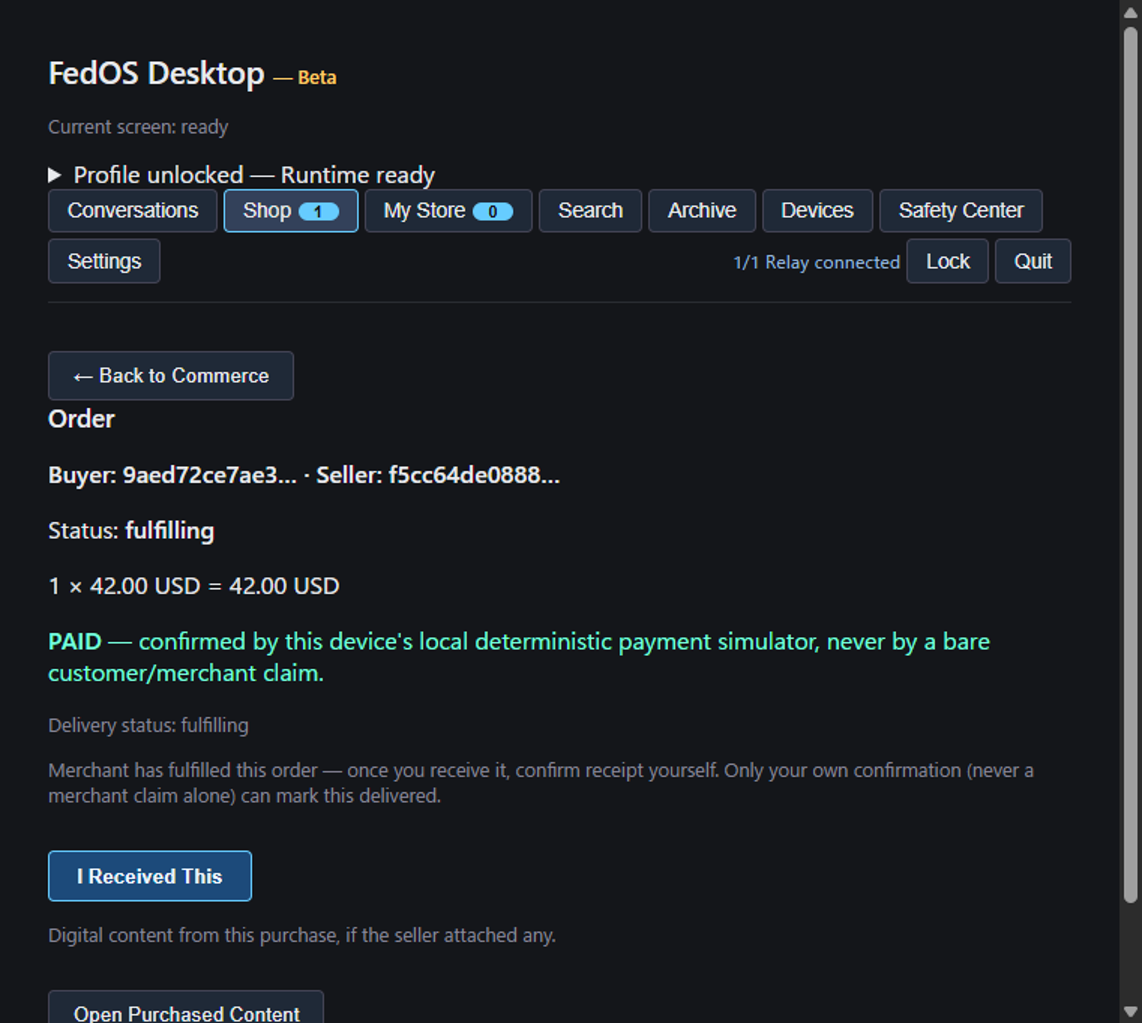
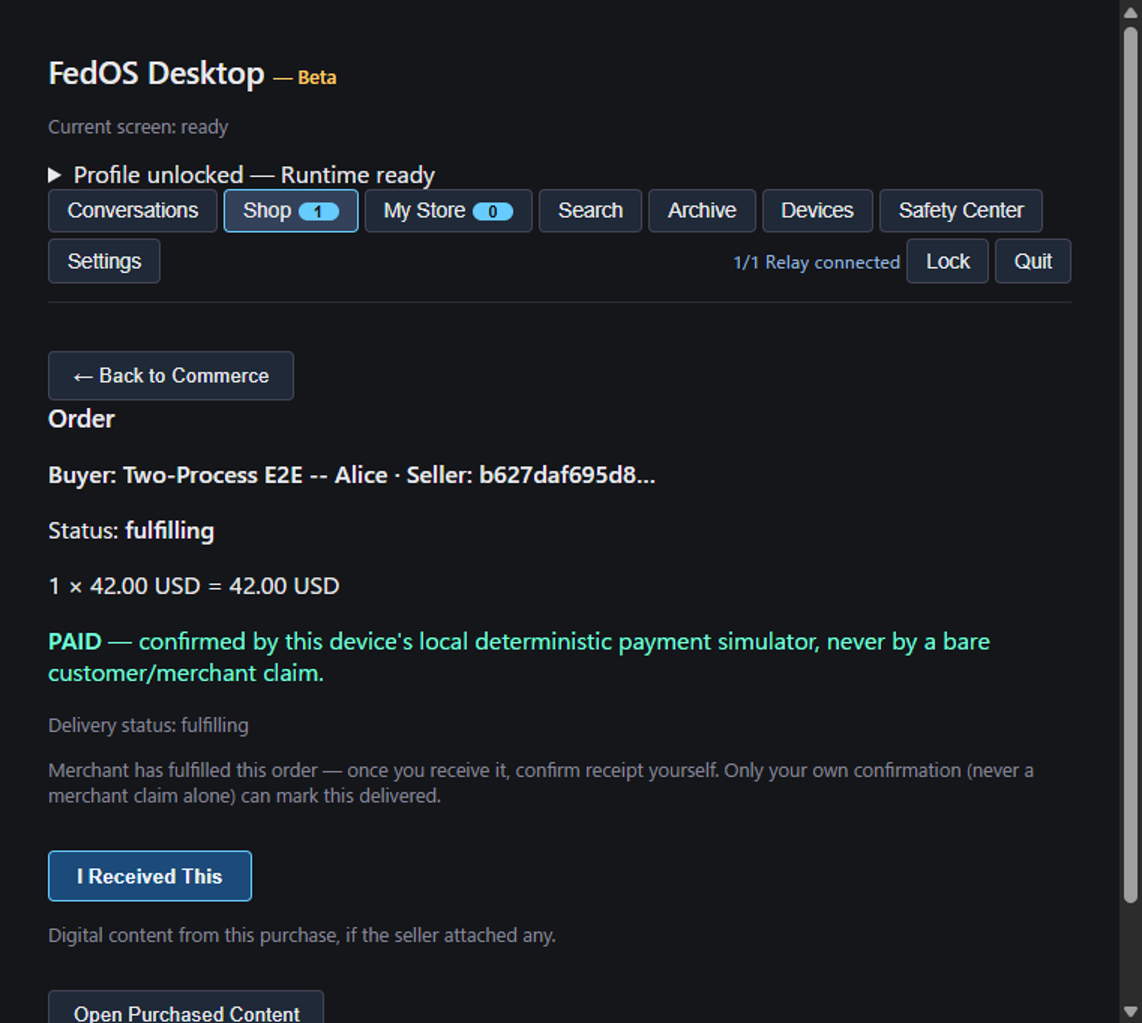
Two-Process E2E: drive SS23's "offline" launch from a DURABLE choice, not a same-launch save
Live-reproduced validation-gate regression: "SS23 offline/reconnect + STEP 7"
failed with `expected 'paid' to be 'accepted'`, cascading into all five
downstream phases via `PHASE B must have reached PAID first`.

ROOT CAUSE (measured, not inferred -- temporary main-process instrumentation
on `initializeCommerceNetworkProfileFromRelayConfig()`,
`handleCommerceNetworkProfileSet()`, `handleCommerceOrdersListIncoming()` and
`applyInboundPrivatePaymentEvidenceNonFatal()`, since removed). Timeline of
BOB_4_OFFLINE_WHILE_EVIDENCE_WAITS, one launch, absolute ms:

  472216  app.whenReady() restored persisted profile "direct"
  473524  unlock -> initializeCommerceNetworkProfileFromRelayConfig() kept
          "direct" (a persisted EXPLICIT choice exists -- guard working)
  473562  handleCommerceOrdersListIncoming ENTER profile="direct"
          (this is renderReady()'s OWN one-shot refresh, ~38ms after unlock)
  473619  payment evidence ADOPTED -> order "paid"
  476417  handleCommerceNetworkProfileSet -> "local-only"  <-- 2.9s TOO LATE
  476730+ every later refresh ENTERs with "local-only" and no-ops correctly

So the `"local-only"` early-return guard in
`commercePrivatePaymentEvidenceDiscoverAndApplyNonFatal()` is correct and did
its job; nothing in production code is racing an explicit user instruction.
The suite's own choreography was stale: `returningLaunchPreamble()` assumed
the pre-arc behaviour where the Network Profile RESET to Local Only every
[…]

Changed region(s): [[0.0919, 0.4545, 0.5823, 0.4848]]

diff --git a/packages/fedos-desktop-electron-spike/test/commerce_e2e_two_process_real_electron.test.ts b/packages/fedos-desktop-electron-spike/test/commerce_e2e_two_process_real_electron.test.ts
@@ -428,12 +428,32 @@ const PRODUCT_DESCRIPTION = "Real cross-process discovery/order-sync proof produ
 
 /**
  * The shared 14-step opening every RETURNING launch uses: real unlock with
- * the real passphrase against the real persisted on-disk profile, then the
- * per-session Commerce network profile (this build deliberately does NOT
- * persist it -- the Settings screen says so in its own copy: "it resets to
- * Local Only every launch"), then the real "Acting as" identity selection.
- * Returned as a fixed-length array so downstream step indices are a simple
- * `PREAMBLE_STEPS + n` everywhere.
+ * the real passphrase against the real persisted on-disk profile, then a
+ * real, EXPLICIT Settings -> Network Profile choice (saved through the real
+ * `fedos-app:commerce-network-profile-set` IPC), then the real "Acting as"
+ * identity selection. Returned as a fixed-length array so downstream step
+ * indices are a simple `PREAMBLE_STEPS + n` everywhere.
+ *
+ * BUYER DISCOVERY + DIGITAL CONTENT DELIVERY mega-arc -- IMPORTANT, AND THE
+ * REASON `returningLaunchPreambleVerifyingPersistedNetworkProfile()` below
+ * exists: the Network Profile is now DURABLE (Agent U's
+ * `persistCommerceNetworkProfile()`, honoured over Agent D's relay-derived
+ * default by the Coordinator's `hasPersistedCommerceNetworkProfileChoice()`
+ * guard, and reloaded in `app.whenReady()` BEFORE any window exists). The
+ * old "it resets to Local Only every launch" behaviour this comment used to
+ * describe is GONE -- the Settings screen's own copy now correctly says
+ * "this choice will still be in effect the next time you launch FedOS".
+ *
+ * The practical consequence for THIS suite: a save performed at step 8/10
+ * below lands ~3 SECONDS AFTER unlock, and `renderReady()` fires a one-shot
+ * `refreshCommerceMyOrdersList()` + `refreshCommerceMerchantOrdersList()`
+ * the instant the Ready screen renders -- i.e. a full bounded reliable
+ * refresh (order-sync, payment-evidence, delivery, media-release) has
+ * already run to completion under the PREVIOUSLY PERSISTED profile before
+ * this preamble's own save is even dispatched. This preamble therefore
+ * CANNOT be used to put a launch "offline"; only a choice persisted in an
+ * EARLIER session can do that, which is exactly what a real user's own
+ * durable Settings choice does.
  */
 const PREAMBLE_STEPS = 14;
 function returningLaunchPreamble(
@@ -454,6 +474,43 @@ function returningLaunchPreamble(
     { action: "fill", selector: "#commerce-network-profile-select", value: networkProfile }, // 8
     { action: "wait", ms: 100 }, // 9
     { action: "click", selector: "#commerce-network-profile-save" }, // 10
+    { action: "wait", ms: 300 }, // 11
+    { action: "fill", selector: actingAsSelector, value: actingAsPubkey }, // 12
+    { action: "wait", ms: 200 }, // 13
+  ];
+}
+
+/**
+ * Same 14-step shape and same step indices as `returningLaunchPreamble()`
+ * above, but it deliberately CHANGES NOTHING about the Commerce network
+ * profile: it opens Settings and READS the Network Profile control back,
+ * so the caller can assert that the choice the user made in an EARLIER
+ * session is genuinely already in force -- which, because
+ * `commerceNetworkProfile` is restored inside `app.whenReady()` before any
+ * window is created, means it was in force for this launch's ENTIRE
+ * lifetime, including `renderReady()`'s own one-shot orders refresh.
+ *
+ * This is the only way this suite can drive a genuinely offline launch: see
+ * `returningLaunchPreamble()`'s own header for why a same-launch save is
+ * always too late.
+ */
+function returningLaunchPreambleVerifyingPersistedNetworkProfile(
+  passphrase: string,
+  actingAsSelector: string,
+  actingAsPubkey: string,
+): readonly UiStep[] {
+  return [
+    { action: "wait", ms: 300 }, // 0
+    { action: "read", selector: "#current-screen" }, // 1 -- expect "unlock"
+    { action: "fill", selector: "#unlock-pass", value: passphrase }, // 2
+    { action: "click", selector: "#unlock-submit" }, // 3
+    { action: "wait", ms: 2500 }, // 4 -- real Argon2 + real WASM master-seed unwrap
+    { action: "read", selector: "#current-screen" }, // 5 -- expect "ready"
+    { action: "click", selector: "#nav-settings" }, // 6
+    { action: "wait", ms: 300 }, // 7
+    { action: "read", selector: "#commerce-network-profile-select", as: "value" }, // 8 -- the RESTORED durable choice, read straight off the real control
+    { action: "wait", ms: 100 }, // 9
+    { action: "read", selector: "#commerce-network-profile-report" }, // 10 -- deliberately NOT a save (no click): nothing about the profile is changed this launch
     { action: "wait", ms: 300 }, // 11
     { action: "fill", selector: actingAsSelector, value: actingAsPubkey }, // 12
     { action: "wait", ms: 200 }, // 13
@@ -732,6 +789,29 @@ realSuite("FedOS Commerce End-to-End -- REAL two independent Electron processes 
         { action: "wait", ms: 500 }, // 24 -- also sends a real private-order-sync EVENT back to Alice
         { action: "read", selector: "#commerce-order-status-text" }, // 25 -- expect "accepted"
         { action: "screenshot", value: "bob-06-accepted" }, // 26
+        // ---------------------------------------------------------------
+        // PHASE B SETUP, performed here on purpose (see PHASE B's own
+        // header): Bob finishes his seller turn and then GOES OFFLINE the
+        // only way this product actually offers -- Settings -> Network
+        // Profile -> "Local Only", saved explicitly. That choice is now
+        // DURABLE (Agent U), so it is restored in `app.whenReady()` of his
+        // NEXT launch before any window exists. Done at the end of THIS
+        // launch, not the start of the next one, because a save can only
+        // ever take effect after unlock -- by which point the Ready
+        // screen's own one-shot orders refresh has already run.
+        //
+        // This is also the last moment at which it is provably free of any
+        // side effect: Alice has not paid yet (STEP 6 is still ahead), so
+        // there is no payment evidence anywhere on the relay for this
+        // still-online launch to adopt.
+        // ---------------------------------------------------------------
+        { action: "click", selector: "#nav-settings" }, // 27
+        { action: "wait", ms: 300 }, // 28
+        { action: "fill", selector: "#commerce-network-profile-select", value: "local-only" }, // 29
+        { action: "wait", ms: 100 }, // 30
+        { action: "click", selector: "#commerce-network-profile-save" }, // 31
+        { action: "wait", ms: 400 }, // 32
+        { action: "read", selector: "#commerce-network-profile-report" }, // 33 -- the real product's own durability promise, read back off the live DOM
       ], true);
       expect(readAt(bob3, 1)).toBe("unlock");
       expect(readAt(bob3, 5)).toBe("ready");
@@ -745,6 +825,14 @@ realSuite("FedOS Commerce End-to-End -- REAL two independent Electron processes 
       // a locally-minted lookalike.
       expect(bobOrderIdLine).toBe(aliceOrderIdLine);
       expect(readAt(bob3, 25)).toBe("accepted");
+      const bobOfflineChoiceReport = readAt(bob3, 33);
+      record(
+        `PHASE B SETUP (performed in this launch, see its own inline comment) -- Bob explicitly set Settings -> Network Profile = "Local Only" and saved it through the real IPC. The product's own response, read back off the live DOM: "${bobOfflineChoiceReport}".`,
+      );
+      expect(
+        bobOfflineChoiceReport,
+        "Bob's explicit \"go offline\" choice must be reported as DURABLE -- PHASE B's whole offline half depends on it surviving into the next launch's `app.whenReady()`",
+      ).toMatch(/still be in effect the next time you launch/);
       record(`STEP 5 PASS -- Bob's process independently discovered+materialized Alice's real Order (parties: ${readAt(bob3, 21)}; identical real order identity on both sides: "${bobOrderIdLine}") purely from the real relay's replayed event, then real-Accepted it (also sending a real private-order-sync EVENT back to Alice's real pubkey).`);
 
       // =====================================================================
@@ -815,8 +903,41 @@ realSuite("FedOS Commerce End-to-End -- REAL two independent Electron processes 
   //
   // "Offline" here is the real, user-reachable, product-level offline this
   // build actually has: Settings -> Network Profile = "Local Only -- never
-  // publish to Nostr", which this build resets to on EVERY launch by design
-  // (the Settings screen says so in its own copy). With that profile,
+  // publish to Nostr".
+  //
+  // HOW THAT CHOICE GETS INTO THE OFFLINE LAUNCH, AND WHY IT CANNOT BE MADE
+  // INSIDE IT (live-reproduced during this arc's validation gate, root-caused
+  // with real main-process instrumentation, recorded here so the same wrong
+  // assumption is not made again):
+  //
+  //   * This comment previously claimed the profile "resets to Local Only on
+  //     EVERY launch by design". That WAS true, and is now FALSE. Agent U made
+  //     an explicit choice durable (`persistCommerceNetworkProfile()`), Agent D
+  //     made the unset default derive from the user's own relay config
+  //     (`initializeCommerceNetworkProfileFromRelayConfig()`), and the
+  //     Coordinator made the durable explicit choice win over that default
+  //     (`hasPersistedCommerceNetworkProfileChoice()`). This suite pre-seeds a
+  //     real relay into `settings.json` before Bob's first launch, and Bob's
+  //     earlier phases explicitly save "direct", so a launch here starts
+  //     ONLINE, never Local Only.
+  //   * `renderReady()` fires a one-shot `refreshCommerceMerchantOrdersList()`
+  //     the moment the Ready screen renders -- measured at ~38ms after unlock,
+  //     which is ~2.9 SECONDS before a Settings save issued by the preamble
+  //     could land. That one refresh is a complete bounded reliable refresh,
+  //     so it legitimately adopted Alice's payment evidence while Bob's own
+  //     standing, explicitly-saved choice was still "direct".
+  //   * That is CORRECT product behaviour, not a defect: at that instant the
+  //     user's own durable instruction was "direct". The fix therefore belongs
+  //     to this suite's choreography -- Bob makes the "Local Only" choice at
+  //     the END of his previous launch (BOB_3, before Alice has paid), exactly
+  //     as a real user does, and it is restored in `app.whenReady()` here
+  //     BEFORE any window exists. The launch below is consequently offline for
+  //     its ENTIRE lifetime, `renderReady()`'s own refresh included -- a
+  //     strictly stronger offline than the old script ever achieved -- and it
+  //     doubles as the live proof that the durable-choice/relay-derived-default
+  //     reconciliation actually holds end to end in a real process.
+  //
+  // With that profile,
   // `commercePrivatePaymentEvidenceDiscoverAndApplyNonFatal()` /
   // `commercePrivateOrderDiscoverAndApplyNonFatal()` /
   // `commercePrivateDeliveryDiscoverAndApplyNonFatal()` all return before
@@ -833,10 +954,12 @@ realSuite("FedOS Commerce End-to-End -- REAL two independent Electron processes 
       expect(bobPubkey.length, "PHASE A must have run first").toBe(64);
 
       // ---------------------------------------------------------------
-      // BOB_4_OFFLINE -- genuinely not talking to the relay this launch.
+      // BOB_4_OFFLINE -- genuinely not talking to the relay this launch,
+      // from `app.whenReady()` onward: the preamble CHANGES nothing, it
+      // only reads back the choice Bob durably made last launch.
       // ---------------------------------------------------------------
       const bob4 = await runBetaUiScript("BOB_4_OFFLINE_WHILE_EVIDENCE_WAITS", bobDataDir, [
-        ...returningLaunchPreamble(BOB_PASSPHRASE, "local-only", "#commerce-merchant-acting-as", bobPubkey), // 0..13
+        ...returningLaunchPreambleVerifyingPersistedNetworkProfile(BOB_PASSPHRASE, "#commerce-merchant-acting-as", bobPubkey), // 0..13
         { action: "click", selector: "#nav-commerce-merchant" }, // 14
         { action: "wait", ms: 4000 }, // 15 -- same generous bound as an online pass, so "offline" is never confused with "not enough time"
         { action: "read", selector: "#commerce-merchant-orders-list" }, // 16
@@ -848,6 +971,19 @@ realSuite("FedOS Commerce End-to-End -- REAL two independent Electron processes 
         { action: "screenshot", value: "bob-09-offline-still-accepted" }, // 22
       ], true);
       expect(readAt(bob4, 5)).toBe("ready");
+      // The durable choice, read straight off the real Settings control in a
+      // brand-new process: proof this launch was Local Only from
+      // `app.whenReady()` onward, i.e. before `renderReady()`'s own one-shot
+      // orders refresh could have run -- not merely from some later point in
+      // the script. Nothing in this launch changed it.
+      const offlineProfileInEffect = readAt(bob4, 8);
+      record(
+        `SS23 (offline half) -- Bob's brand-new process restored his OWN explicit Settings choice from the previous session: Network Profile control reads "${offlineProfileInEffect}" (restored in \`app.whenReady()\`, before any window exists; this launch never saves anything).`,
+      );
+      expect(
+        offlineProfileInEffect,
+        "Bob's durable \"Local Only\" choice must already be in force at launch -- otherwise this phase is not testing an offline process at all",
+      ).toBe("local-only");
       const offlineOrdersText = readAt(bob4, 16);
       const offlineSyncStatus = softReadAt(bob4, 17);
       const offlineStatus = readAt(bob4, 20);

diff --git a/docs/commerce/evidence/commerce_e2e_two_process_evidence.md b/docs/commerce/evidence/commerce_e2e_two_process_evidence.md
@@ -286,3 +286,82 @@ real local relay closed.
 owned-PID sweep: all 16 Electron processes this suite spawned had already exited cleanly on their own -- zero orphans, zero kills issued.
 Evidence doc: C:\Users\T126158\OneDrive - 公立諏訪東京理科大学\デスクトップ\OS\OS-worktrees\commerce-purchase-integration/docs/commerce/evidence/commerce_e2e_two_process_evidence.md
 Screenshots dir: C:\Users\T126158\OneDrive - 公立諏訪東京理科大学\デスクトップ\OS\OS-worktrees\commerce-purchase-integration/docs/commerce/evidence/commerce_e2e_two_process/screens
+# Commerce E2E -- REAL two-independent-Electron-process evidence
+
+Generated by commerce_e2e_two_process_real_electron.test.ts
+
+Started: 2026-08-13T02:27:44.362Z
+
+real local relay started: ws://127.0.0.1:64428 (historyEnabled: true -- a launch that starts AFTER an event was published still discovers it, matching this suite's own sequential-multi-launch design)
+Bob dataDir: C:\Users\T126158\AppData\Local\Temp\fedos-2proc-e2e-bob-aXckbP -- settings.json pre-seeded with relays:["ws://127.0.0.1:64428"] BEFORE first launch
+Alice dataDir: C:\Users\T126158\AppData\Local\Temp\fedos-2proc-e2e-alice-2lVr78 -- settings.json pre-seeded with relays:["ws://127.0.0.1:64428"] BEFORE first launch
+launch "BOB_1_CREATE": spawned real Electron dev process, pid=21500, dataDir=C:\Users\T126158\AppData\Local\Temp\fedos-2proc-e2e-bob-aXckbP
+launch "BOB_1_CREATE": process exited (exitCode=0); OS-level Win32_Process check for pid=21500: gone (clean)
+STEP 1/2 PASS -- Bob's process (pid 21500) created a REAL local Persona. Bob's real pubkey: b627daf695d8a59f732e3a56de3c56da950168ef54a1eefcf017434353082458
+launch "BOB_2_PUBLISH": spawned real Electron dev process, pid=5560, dataDir=C:\Users\T126158\AppData\Local\Temp\fedos-2proc-e2e-bob-aXckbP
+launch "BOB_2_PUBLISH": process exited (exitCode=0); OS-level Win32_Process check for pid=5560: gone (clean)
+STEP 2 PASS -- Bob's process (pid 5560) unlocked his REAL persisted profile via real passphrase, enabled Commerce Nostr "direct" for this session, created+previewed+published a REAL product ("FedOS Two-Process E2E Proof Item") -- confirmed locally "active": "FedOS Two-Process E2E Proof Item — active42.00 USDPreviewEditUnpublishProduct image — shown to everyone browsing the Shop.Product photo only — this is not where you attach the digital content buyers will receive (use “Purchased file” below for that).Attach PhotoPurchased file — only buyers who complete payment for this product can open it.Attach Purchased FileShare ProductCopy Share Info". This is the ONLY real Nostr publish in Bob's whole flow.
+launch "ALICE_1_CREATE": spawned real Electron dev process, pid=18036, dataDir=C:\Users\T126158\AppData\Local\Temp\fedos-2proc-e2e-alice-2lVr78
+launch "ALICE_1_CREATE": process exited (exitCode=0); OS-level Win32_Process check for pid=18036: gone (clean)
+STEP -- ALICE_1_CREATE PASS -- Alice's process (pid 18036) created a REAL, separate local Persona (own dataDir, own PID, own master seed). Alice's real pubkey: 6bc3b12350cc70454c90c4b7ed5d1ebb3ac3a23d6ecd7fa4017f0e09ed1c4fd8
+launch "ALICE_2_DISCOVER_AND_ORDER": spawned real Electron dev process, pid=10444, dataDir=C:\Users\T126158\AppData\Local\Temp\fedos-2proc-e2e-alice-2lVr78
+launch "ALICE_2_DISCOVER_AND_ORDER": process exited (exitCode=0); OS-level Win32_Process check for pid=10444: gone (clean)
+STEP 3 (MAKE-OR-BREAK #1) -- Alice's SEPARATE process (pid 10444) real Shop catalog query result: PASS -- Bob's real published listing IS present. Raw catalog list text: "DADigital Art Print — Aurora Study18.00 USDNorthlight StudioDEMOViewMKMechanical Keyboard Keycap Set — Terra65.00 USDNorthlight StudioDEMOViewLWLocal Workshop Ticket — Intro to Woodworking45.00 USDRiverbend MakerspaceDEMOViewFTFedOS Two-Process E2E Proof Item42.00 USDIndependent seller b627daf695… (display name not shared yet)View"
+STEP 3 PASS -- Product Detail rendered from the REAL discovered+verified envelope: title="FedOS Two-Process E2E Proof Item", seller line="Sold by Independent seller b627daf695… (display name not shared yet)".
+STEP 4 PASS -- Alice's process created+submitted a REAL Order as buyer=6bc3b12350cc70454c90c4b7ed5d1ebb3ac3a23d6ecd7fa4017f0e09ed1c4fd8 (her own real Persona, never a demo actor) against seller=b627daf695d8a59f732e3a56de3c56da950168ef54a1eefcf017434353082458, for a product her own process only ever learned about via real Nostr discovery. Real order identity from Technical details: "Order id: 09b40af216c99887b9794b70d4e230c6". Agent U's own honest order-channel sync note read back from the live DOM: "Synced to your configured Relay.".
+launch "BOB_3_DISCOVER_AND_ACCEPT": spawned real Electron dev process, pid=19432, dataDir=C:\Users\T126158\AppData\Local\Temp\fedos-2proc-e2e-bob-aXckbP
+launch "BOB_3_DISCOVER_AND_ACCEPT": process exited (exitCode=0); OS-level Win32_Process check for pid=19432: gone (clean)
+STEP 5 (MAKE-OR-BREAK #2, THE central fact for this whole arc) -- Bob's THIRD, brand-new, separate process (pid 19432) real "My Store" incoming-orders query result: PASS -- Alice's real Order WAS independently discovered/materialized, with ZERO same-process shortcut. Raw incoming-orders list text: "6bc3b12350cc… — submittedOrder 09b40af216c9…1 × 42.00 USD = 42.00 USDOpen"
+PHASE B SETUP (performed in this launch, see its own inline comment) -- Bob explicitly set Settings -> Network Profile = "Local Only" and saved it through the real IPC. The product's own response, read back off the live DOM: "Saved — this choice will still be in effect the next time you launch FedOS.".
+STEP 5 PASS -- Bob's process independently discovered+materialized Alice's real Order (parties: Buyer: 6bc3b12350cc… · Seller: Two-Process E2E -- Bob; identical real order identity on both sides: "Order id: 09b40af216c99887b9794b70d4e230c6") purely from the real relay's replayed event, then real-Accepted it (also sending a real private-order-sync EVENT back to Alice's real pubkey).
+launch "ALICE_3_PAY": spawned real Electron dev process, pid=18428, dataDir=C:\Users\T126158\AppData\Local\Temp\fedos-2proc-e2e-alice-2lVr78
+launch "ALICE_3_PAY": process exited (exitCode=0); OS-level Win32_Process check for pid=18428: gone (clean)
+STEP (MAKE-OR-BREAK #3, third independent cross-process fact) -- Alice's process independently discovered Bob's real "accepted" transition: PASS
+STEP 6 PASS (Alice's own device) -- Alice performed a REAL TEST/LOCAL payment (paymentId=local-sim-payment-5ddaebce-1) entirely within her own process; her own local Order now shows "paid". NEVER real money; the seller could not have forced this -- only Alice's own process ever called Pay Now/Simulate for her own order.
+STEP 6 (outbound PaymentEvidence, buyer side, LIVE-CAPTURED) -- #commerce-order-payment-sync-note read straight back off the real DOM: "Payment confirmation — Synced to your configured Relay.". #commerce-order-payment-error: "". Main-process diagnostics matching /PaymentEvidence/i in this launch's own stdout+stderr: (none)
+launch "BOB_4_OFFLINE_WHILE_EVIDENCE_WAITS": spawned real Electron dev process, pid=10864, dataDir=C:\Users\T126158\AppData\Local\Temp\fedos-2proc-e2e-bob-aXckbP
+launch "BOB_4_OFFLINE_WHILE_EVIDENCE_WAITS": process exited (exitCode=0); OS-level Win32_Process check for pid=10864: gone (clean)
+SS23 (offline half) -- Bob's brand-new process restored his OWN explicit Settings choice from the previous session: Network Profile control reads "local-only" (restored in `app.whenReady()`, before any window exists; this launch never saves anything).
+SS23 (offline half) -- Bob's process (pid 10864) ran an entire bounded refresh with Commerce network profile "local-only" while Alice's real payment evidence was ALREADY published and sitting on the still-running relay. His own local Order status: "accepted". Honest sync-state line: "Up to date.". Orders list: "6bc3b12350cc… — acceptedOrder 09b40af216c9…1 × 42.00 USD = 42.00 USDOpen"
+launch "BOB_5_RECONNECT_DISCOVER_PAYMENT_EVIDENCE": spawned real Electron dev process, pid=15060, dataDir=C:\Users\T126158\AppData\Local\Temp\fedos-2proc-e2e-bob-aXckbP
+launch "BOB_5_RECONNECT_DISCOVER_PAYMENT_EVIDENCE": process exited (exitCode=0); OS-level Win32_Process check for pid=15060: gone (clean)
+STEP 7 / SS23 (reconnect half) -- Bob's brand-new, RECONNECTED process (pid 15060) ran one bounded refresh: his own local Order status is now "paid". Orders list: "6bc3b12350cc… — paidOrder 09b40af216c9…1 × 42.00 USD = 42.00 USDOpen". #commerce-order-error: "". Main-process diagnostics matching /PaymentEvidence/i: (none -- no inbound event was rejected, dropped or errored)
+STEP 7 PASS (SS23 offline/reconnect proven in the same phase) -- payment confirmation genuinely crossed a real OS process boundary. It did NOT and CANNOT have travelled on the order-sync channel (`PrivateOrderSyncStatus` structurally cannot carry "paid"), so it arrived on the separate PaymentEvidence channel and was independently re-verified receiver-side (sender identity vs this order's own buyer, order binding, amount, currency, provider identity, then the settlement ledger's own replay/idempotency gate) before Bob's own Order was allowed to transition. Resolved exactly ONCE: still exactly 1 order row, no duplicate.
+launch "BOB_6_RESTART_AFTER_PAID": spawned real Electron dev process, pid=8780, dataDir=C:\Users\T126158\AppData\Local\Temp\fedos-2proc-e2e-bob-aXckbP
+launch "BOB_6_RESTART_AFTER_PAID": process exited (exitCode=0); OS-level Win32_Process check for pid=8780: gone (clean)
+SS22 (mid-flow restart after PAID) -- Bob's process (pid 8780) restarted with an EMPTY in-process dedup set and re-ran every bounded discovery pass against the same relay history. Status: "paid". Order rows: 1. Money summary (must be unchanged): "1 × 42.00 USD = 42.00 USD". Attention panel: "1Paid — ready to fulfill". Main-process diagnostics matching /PaymentEvidence|settlement/i: (none)
+SS22 PASS -- restart after PAID produced ZERO duplicate transaction effects: same single order, same single "paid" state, same single 42.00 USD amount, attention count still exactly 1.
+launch "BOB_7_FULFILL": spawned real Electron dev process, pid=13096, dataDir=C:\Users\T126158\AppData\Local\Temp\fedos-2proc-e2e-bob-aXckbP
+launch "BOB_7_FULFILL": process exited (exitCode=0); OS-level Win32_Process check for pid=13096: gone (clean)
+STEP 8 -- Bob's process (pid 13096) clicked the real, now-VISIBLE Fulfill control. Order status: "fulfilling". Delivery: "Delivery status: fulfilling". Delivery-channel sync note: "Delivery update — Synced to your configured Relay.". Order-channel sync note: "Synced to your configured Relay.". #commerce-order-error: "".
+STEP 8 PASS -- real Order "fulfilling" + real local Delivery record created and started + a real, relay-accepted Delivery-sync event addressed to Alice's real pubkey.
+launch "ALICE_4_DISCOVER_DELIVERY_AND_ACK": spawned real Electron dev process, pid=17356, dataDir=C:\Users\T126158\AppData\Local\Temp\fedos-2proc-e2e-alice-2lVr78
+launch "ALICE_4_DISCOVER_DELIVERY_AND_ACK": process exited (exitCode=0); OS-level Win32_Process check for pid=17356: gone (clean)
+STEP 9 (delivery discovery half) -- Alice's independent process (pid 17356) read status "fulfilling" and "Delivery status: fulfilling". Orders list: "b627daf695d8… — fulfillingOrder 09b40af216c9…1 × 42.00 USD = 42.00 USDOpen"
+STEP 9 (purchased-content half, REAL captured result -- never faked) -- Alice clicked the real, VISIBLE "Open Purchased Content" control on her own genuinely paid+fulfilling order. The real grant-gated redeem handler (`handleCommerceMediaGrantRedeem`) answered, and the DOM shows: "this product has no protected content". See this phase's own comment for the precise, source-confirmed boundary this represents (it is one layer EARLIER than the arc's disclosed byte-transport gap).
+STEP 9 (acknowledge half) -- after Alice's real "I Received This": order status "delivered", delivery "Delivery status: delivered", #commerce-order-error "".
+STEP 9 PASS -- Alice's own independent process moved the order to "delivered" through the ONE path that can do it (a real recipient_acknowledgment by the order's own buyer), and a real Delivery-sync "recipient_acknowledged" event went back to Bob.
+launch "ALICE_5_COMPLETE_AND_RECEIPT": spawned real Electron dev process, pid=16444, dataDir=C:\Users\T126158\AppData\Local\Temp\fedos-2proc-e2e-alice-2lVr78
+launch "ALICE_5_COMPLETE_AND_RECEIPT": process exited (exitCode=0); OS-level Win32_Process check for pid=16444: gone (clean)
+STEP 10 (buyer side) -- order status "completed"; completion note (Agent U's honest reputation copy): "Order completed. Reputation records were saved for both parties."; receipt verification status: "VALID"; receipt error: ""; signed QR envelope length: 1194 chars; envelope prefix: "fedos:trust:v1:eyJ2ZXJzaW9uIjoxLCJ0eXBlIjoiZmVkb3MuY29udHJhY3QtYXJ0aWZhY3QudjEiLCJpc3N1ZXI"
+STEP 10 (reputation) -- `reputationSyncStatus` as reported by the real `handleCommerceOrderComplete` and rendered honestly by the renderer: recorded (attestations genuinely written)
+launch "BOB_8_CONFIRM_COMPLETION": spawned real Electron dev process, pid=18080, dataDir=C:\Users\T126158\AppData\Local\Temp\fedos-2proc-e2e-bob-aXckbP
+launch "BOB_8_CONFIRM_COMPLETION": process exited (exitCode=0); OS-level Win32_Process check for pid=18080: gone (clean)
+STEP 10 (seller side, cross-process -- COMPLETION-LAG FIX VERIFIED) -- Bob's independent process (pid 18080) after refresh pass #1: order status "completed", delivery "Delivery status: completed". After a SECOND full refresh in the SAME process: "completed". His OWN "My Store" reputation panel says: "No reputation history on record for this seller yet.".
+STEP 10 (seller-side completion lag -- FIXED, live-verified in this run) -- Bob's independent process now reaches "completed" WITHIN A SINGLE LAUNCH, no restart required. The order-sync pass still cannot apply Alice's "completed" while the local Order is "fulfilling", but the event is no longer consumed by the dedup set, so the next bounded refresh point in the same process applies it. The pre-fix run of this identical script reported "delivered" after BOTH refreshes (see the earlier section of this same evidence log).
+launch "BOB_8B_COMPLETION_RESOLVES_NEXT_LAUNCH": spawned real Electron dev process, pid=13096, dataDir=C:\Users\T126158\AppData\Local\Temp\fedos-2proc-e2e-bob-aXckbP
+launch "BOB_8B_COMPLETION_RESOLVES_NEXT_LAUNCH": process exited (exitCode=0); OS-level Win32_Process check for pid=13096: gone (clean)
+STEP 10 (seller side, next launch) -- Bob's next independent process (pid 13096) reads order status "completed", delivery "Delivery status: completed". Orders: "6bc3b12350cc… — completedOrder 09b40af216c9…1 × 42.00 USD = 42.00 USDOpen"
+STEP 10 PASS -- full completion, a real signed+QR Trust receipt verified VALID by the real verifier, a real reputation record on the completing party's device, and the completion confirmed on the counterparty's own independent process WITHIN THAT PROCESS (no app restart needed), then re-read durably on the next launch.
+launch "BOB_9_RESTART_VERIFY": spawned real Electron dev process, pid=5180, dataDir=C:\Users\T126158\AppData\Local\Temp\fedos-2proc-e2e-bob-aXckbP
+launch "BOB_9_RESTART_VERIFY": process exited (exitCode=0); OS-level Win32_Process check for pid=5180: gone (clean)
+SS21 (Bob's restarted process, pid 5180) -- Persona identity: SURVIVED (identical real pubkey). Products: "FedOS Two-Process E2E Proof Item — active42.00 USDPreviewEditUnpublishProduct image — shown to everyone browsing the Shop.Product photo only — this is not where you attach the digital content buyers will receive (use “Purchased file” below for that).Attach PhotoPurchased file — only buyers who complete payment for this product can open it.Attach Purchased FileShare ProductCopy Share Info". Orders: "6bc3b12350cc… — completedOrder 09b40af216c9…1 × 42.00 USD = 42.00 USDOpen". Order status: "completed". Delivery: "Delivery status: completed". Parties: "Buyer: 6bc3b12350cc… · Seller: Two-Process E2E -- Bob". Summary: "1 × 42.00 USD = 42.00 USD". Order id: 09b40af216c99887b9794b70d4e230c6. Reputation panel: "No reputation history on record for this seller yet.".
+SS21 (reputation, REAL captured result) -- Bob's own "My Store" reputation panel after a fully completed, cross-process-confirmed trade reads: "No reputation history on record for this seller yet.". Reputation attestations are written only in the process that ran the completion (Alice's) and no private sync channel carries them, so the counterparty's own reputation surface is unaffected by a real completed trade. Live-confirmed limitation, not a test flake.
+launch "ALICE_6_RESTART_VERIFY": spawned real Electron dev process, pid=4208, dataDir=C:\Users\T126158\AppData\Local\Temp\fedos-2proc-e2e-alice-2lVr78
+launch "ALICE_6_RESTART_VERIFY": process exited (exitCode=0); OS-level Win32_Process check for pid=4208: gone (clean)
+SS21 (Alice's restarted process, pid 4208) -- Persona identity: SURVIVED (identical real pubkey). Orders: "b627daf695d8… — completedOrder 09b40af216c9…1 × 42.00 USD = 42.00 USDOpen". Status: "completed". Delivery: "Delivery status: completed". Receipt verification after restart (Agent R's receipt-lookup auto-fetch, NOT a re-issue): "VALID". Restored signed envelope length: 1194 chars. Summary: "1 × 42.00 USD = 42.00 USD". Purchased-content result after restart: "this product has no protected content".
+SS21 PASS -- every durable fact re-verified live on BOTH restarted, independent processes.
+real local relay closed.
+owned-PID sweep: all 16 Electron processes this suite spawned had already exited cleanly on their own -- zero orphans, zero kills issued.
+Evidence doc: C:\Users\T126158\OneDrive - 公立諏訪東京理科大学\デスクトップ\OS\OS-worktrees\commerce-discovery-delivery/docs/commerce/evidence/commerce_e2e_two_process_evidence.md
+Screenshots dir: C:\Users\T126158\OneDrive - 公立諏訪東京理科大学\デスクトップ\OS\OS-worktrees\commerce-discovery-delivery/docs/commerce/evidence/commerce_e2e_two_process/screens
